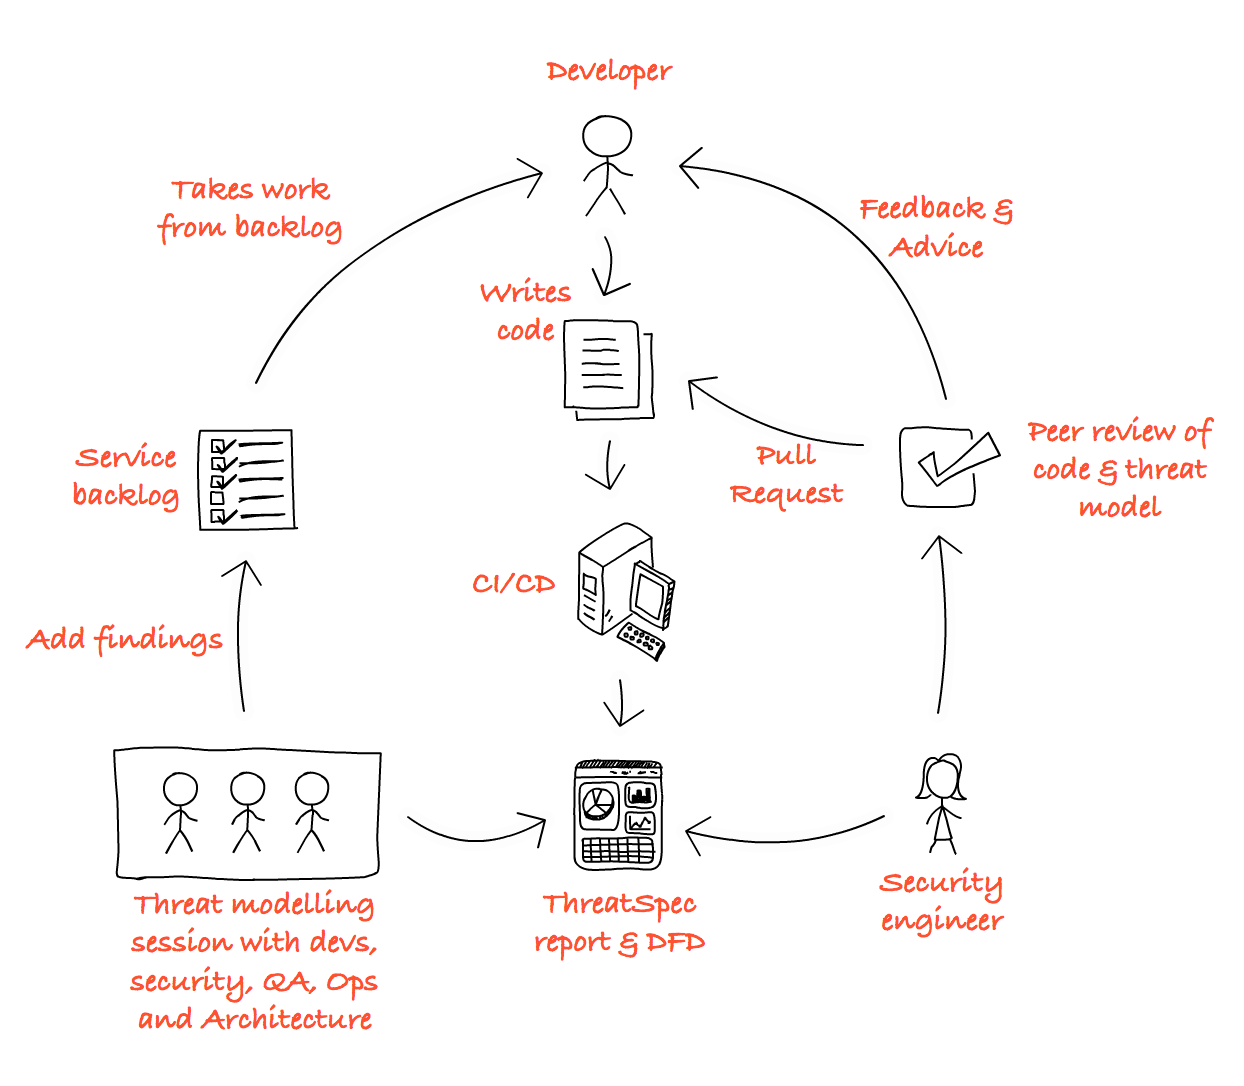
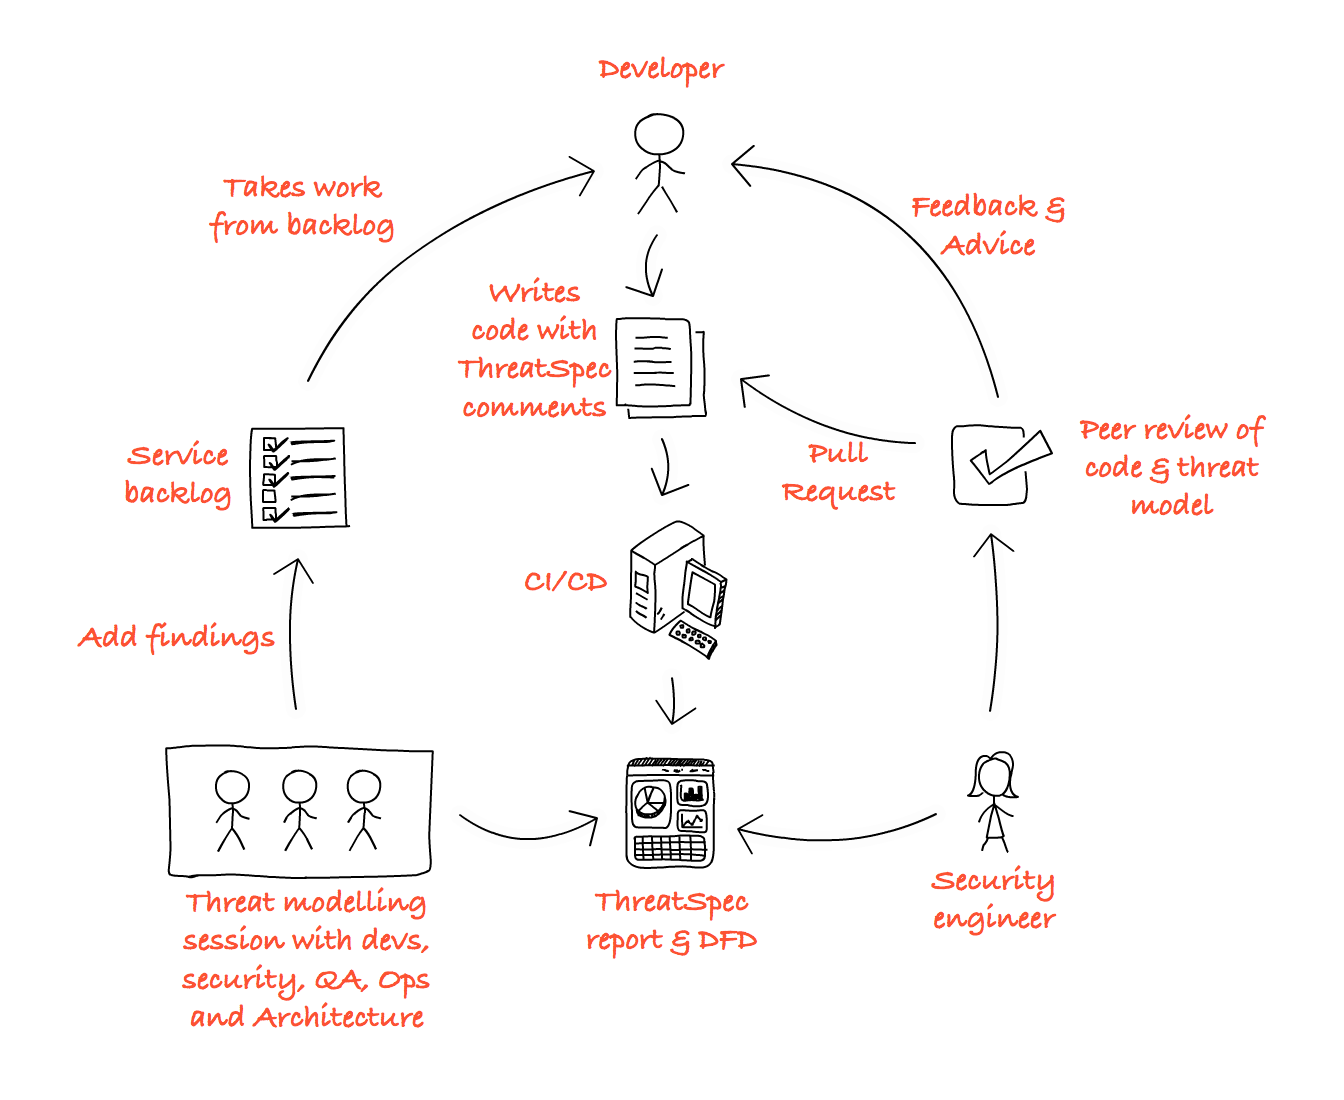
latest

diff --git a/index.html b/index.html
@@ -323,7 +323,13 @@ WebServerGroup = t.add_resource(AutoScalingGroup(
 ))
 </code></pre><br/>
 
-            <p>As you can see we're using an <b>@alias</b> tag to first define an App boundary, then to define a WebServerASGGroup component amongst others. 
+            <p>As you can see we're using an <b>@alias</b> tag to first define an App boundary, then to define a WebServerASGGroup component amongst others. The <b>@alias</b> tag allows you to create a short identifer that can be reused across source files and even different projects. It is defined as follows:</p>
+
+            <pre><code class="shell">@alias boundary &lt;@boundary_id&gt; to &lt;name&gt;
+@alias component &lt;@boundary_id&gt;:&lt;@component_id&gt; to &lt;name&gt;
+@alias threat &lt;@threat_id&gt; to &lt;name&gt;
+</code></pre><br/>
+
             <p>We'll now use the <b>run_tutorial_step.sh</b> script to parse the source file and generate the Data-flow diagram.</p>
 						<pre><code class="bash">$ ./run_tutorial_step.sh LAMP_Multi_AZ_01
 Running universal parser for LAMP_Multi_AZ_01
@@ -375,7 +381,7 @@ You can now view LAMP_Multi_AZ_02.mermaid.png
             <br/><br/>
 
             <h3>Step 3 - LAMP_Multi_AZ_03_connections.py</h3>
-            <p>So far so good, but all we have at the moment is a collection of disconnected components group into various trust boundaries. The troposphere script specifies different relationships between the components, so we'll use the <b>@connects</b> tag to sketch out those connections. We've added them to the file <b>LAMP_Multi_AZ_03_connections.py</b>, so you should see things like:</p>
+            <p>So far so good, but all we have at the moment is a collection of disconnected components grouped into various trust boundaries. The troposphere script specifies different relationships between the components, so we'll use the <b>@connects</b> tag to sketch out those connections. We've added them to the file <b>LAMP_Multi_AZ_03_connections.py</b>, so you should see things like:</p>
 
             <pre><code class="python"># @alias component @db:@db_ec2_sg to DBEC2SecurityGroup
 # @connects @db:@db_sg with @db:@db_ec2_sg
@@ -386,6 +392,11 @@ DBEC2SecurityGroup = t.add_resource(SecurityGroup(
     GroupDescription="Open database for access",
     Condition="Is-EC2-VPC",
 ))
+</code></pre><br/>
+
+            <p>The <b>@connects</b> tag can be used to create uni-directional (to) and bi-directional (with) connections and is defined as:</p>
+            <pre><code class="shell">@connects &lt;@boundary_id&gt;:&lt;@component_id&gt; to &lt;@boundary_id&gt;:&lt;@component_id&gt; [as &lt;name&gt;]
+@connects &lt;@boundary_id&gt;:&lt;@component_id&gt; with &lt;@boundary_id&gt;:&lt;@component_id&gt; [as &lt;name&gt;]
 </code></pre><br/>
 
 						<p>We'll run the <b>run_tutorial_step.sh</b> file once again.</p>
@@ -403,7 +414,7 @@ You can now view LAMP_Multi_AZ_03.mermaid.png
             <p>Now things are really getting interesting. The above image gives us a pretty good idea of what components there are and how they're connected. We're now in a position to start thinking about the threats against the system.</p>
             <p>In this example we're going to use the SANS Top 25 (<a href="https://uk.sans.org/top25-software-errors/">https://uk.sans.org/top25-software-errors/</a>) as a way to guide our threat modelling effort. A lot of the CWEs aren't relevent to our current infrastructure-level perspective, but the section titled <b>Porous Defenses</b> does have relevant threats. Take <b>CWE-311 Missing Encryption of Sensitive Data</b> for example. Thinking about this threat as we look at our Data-flow diagram, one thing immediately stands out. The users are connecting to the Elastic Loadbalancer using http, not https. This is bad. Even if we're not handling credit cards or other very sensitive data, it is still best practise to encrypt all traffic. We may ask the user to log in, so we need to protect their credentials and session details. We may ask them to sign up with personal information, so we should ensure this is protected as well. Or perhaps our service is of a religious, political or sexual nature and we want to ensure our users' right to privacy.</p>
            
-            <p>So, let's add a note about CWE-311. In the pythreatspec examples directory you'll see a file called <b>cwe_library.threatspec.json</b>. This was created from the CWE <a href="">xml file</a>  provided by Mitre which was processed by the <b>cwe_to_threatspec.py</b> script. If we look for CWE 311 in the json file, we'll find the alias identifier that we can use in our source code.</p>
+            <p>So, let's add a note about CWE-311. In the pythreatspec <a href="https://github.com/threatspec/pythreatspec/tree/master/examples">examples</a> directory you'll see a file called <b>cwe_library.threatspec.json</b>. This was created from the CWE <a href="">xml file</a>  provided by Mitre which was processed by the <b>cwe_to_threatspec.py</b> script. If we look for CWE 311 in the json file, we'll find the alias identifier that we can use in our source code.</p>
 
             <pre><code class="bash"> $ grep 311 ../examples/cwe_library.threatspec.json
     "@cwe_311_missing_encryption_of_sensitive_data": {
@@ -411,24 +422,7 @@ You can now view LAMP_Multi_AZ_03.mermaid.png
         "https://cwe.mitre.org/data/definitions/311.html"
 </code></pre><br/>
 
-            <p>We can now use the <b>cwe_311_missing_encryption_of_sensitive_data</b> identifier. In this case, because we've exposed ourselves to CWE 311, we're going to use the <b>@exposes</b> tag. The tags are defined as follows:</p>
-            <pre><code class="shell">@alias boundary &lt;@boundary_id&gt; to &lt;name&gt;
-@alias component &lt;@boundary_id&gt;:&lt;@component_id&gt; to &lt;name&gt;
-@alias threat &lt;@threat_id&gt; to &lt;name&gt;
-@describe boundary &lt;@boundary_id&gt; as &lt;description&gt;
-@describe component &lt;@boundary_id&gt;:&lt;@component_id&gt; as &lt;description&gt;
-@describe threat &lt;@threat_id&gt; as &lt;description&gt;
-@connects &lt;@boundary_id&gt;:&lt;@component_id&gt; to &lt;@boundary_id&gt;:&lt;@component_id&gt; [as &lt;name&gt;]
-@connects &lt;@boundary_id&gt;:&lt;@component_id&gt; with &lt;@boundary_id&gt;:&lt;@component_id&gt; [as &lt;name&gt;]
-@review &lt;@boundary_id&gt;:&lt;@component_id&gt; &lt;review&gt;
-@mitigates &lt;@boundary_id&gt;:&lt;@component_id&gt; against (&lt;@threat_id&gt;|&lt;threat&gt;) with &lt;mitigation&lt;
-@exposes &lt;@boundary_id&gt;:&lt;@component_id&gt; to (&lt;@threat_id&gt;|&lt;threat&gt;) with &lt;exposure&lt;
-@transfers (&lt;@threat_id&gt;|&lt;threat&gt;) to &lt;@boundary_id&gt;:&lt;@component_id&gt; with &lt;transfer&lt;
-@accepts (&lt;@threat_id&gt;|&lt;threat&gt;) to &lt;@boundary_id&gt;:&lt;@component_id&gt; with &lt;acceptance&lt;
-</code></pre><br/>
-
-            <p>For more information, read the specifications here: <a href="https://github.com/threatspec/threatspec/wiki/Specifications">https://github.com/threatspec/threatspec/wiki/Specifications</a>.</p>
-            <p>Let's add the <b>@exposes</b> tag.</p>
+            <p>We can now use the <b>@cwe_311_missing_encryption_of_sensitive_data</b> identifier. In this case, because we've exposed ourselves to CWE 311, we're going to use the <b>@exposes</b> tag, so let's add it.</p>
 
             <pre><code class="python"># @alias component @web:@elb to ElasticLoadBalancer
 # Who uses the ELB? Well, a user, so adding them in
@@ -469,7 +463,24 @@ WebServerSecurityGroup = t.add_resource(SecurityGroup(
 ))
 </code></pre><br/>
 
-						<p>We'll run the <b>run_tutorial_step.sh</b> file for the final time.</p>
+            <p>There are four threat related tags, namely <b>@mitigates</b>, <b>@exposes</b>, <b>@transfers</b> and <b>@accepts</b>. These are defined as:</p>
+            <pre><code class="shell">@mitigates &lt;@boundary_id&gt;:&lt;@component_id&gt; against (&lt;@threat_id&gt;|&lt;threat&gt;) with &lt;mitigation&gt;
+@exposes &lt;@boundary_id&gt;:&lt;@component_id&gt; to (&lt;@threat_id&gt;|&lt;threat&gt;) with &lt;exposure&gt;
+@transfers (&lt;@threat_id&gt;|&lt;threat&gt;) to &lt;@boundary_id&gt;:&lt;@component_id&gt; with &lt;transfer&gt;
+@accepts (&lt;@threat_id&gt;|&lt;threat&gt;) to &lt;@boundary_id&gt;:&lt;@component_id&gt; with &lt;acceptance&gt;
+</code></pre><br/>
+
+            <p>There are also two additional tags that can be used. <b>@review</b> lets you make an unstructured note of something that needs further consideration, and <b>@describe</b> lets you add a longer description to a boundary, component or threat. These are defined as:</p>
+        
+            <pre><code class="shell">@review &lt;@boundary_id&gt;:&lt;@component_id&gt; &lt;review&gt;
+@describe boundary &lt;@boundary_id&gt; as &lt;description&gt;
+@describe component &lt;@boundary_id&gt;:&lt;@component_id&gt; as &lt;description&gt;
+@describe threat &lt;@threat_id&gt; as &lt;description&gt;
+</code></pre><br/>
+
+            <p>For more information, read the specifications here: <a href="https://github.com/threatspec/threatspec/wiki/Specifications">https://github.com/threatspec/threatspec/wiki/Specifications</a>.</p>
+
+						<p>We'll now run the <b>run_tutorial_step.sh</b> file for the final time.</p>
 
 						<pre><code class="bash">$ ./run_tutorial_step.sh LAMP_Multi_AZ_04
 ...
